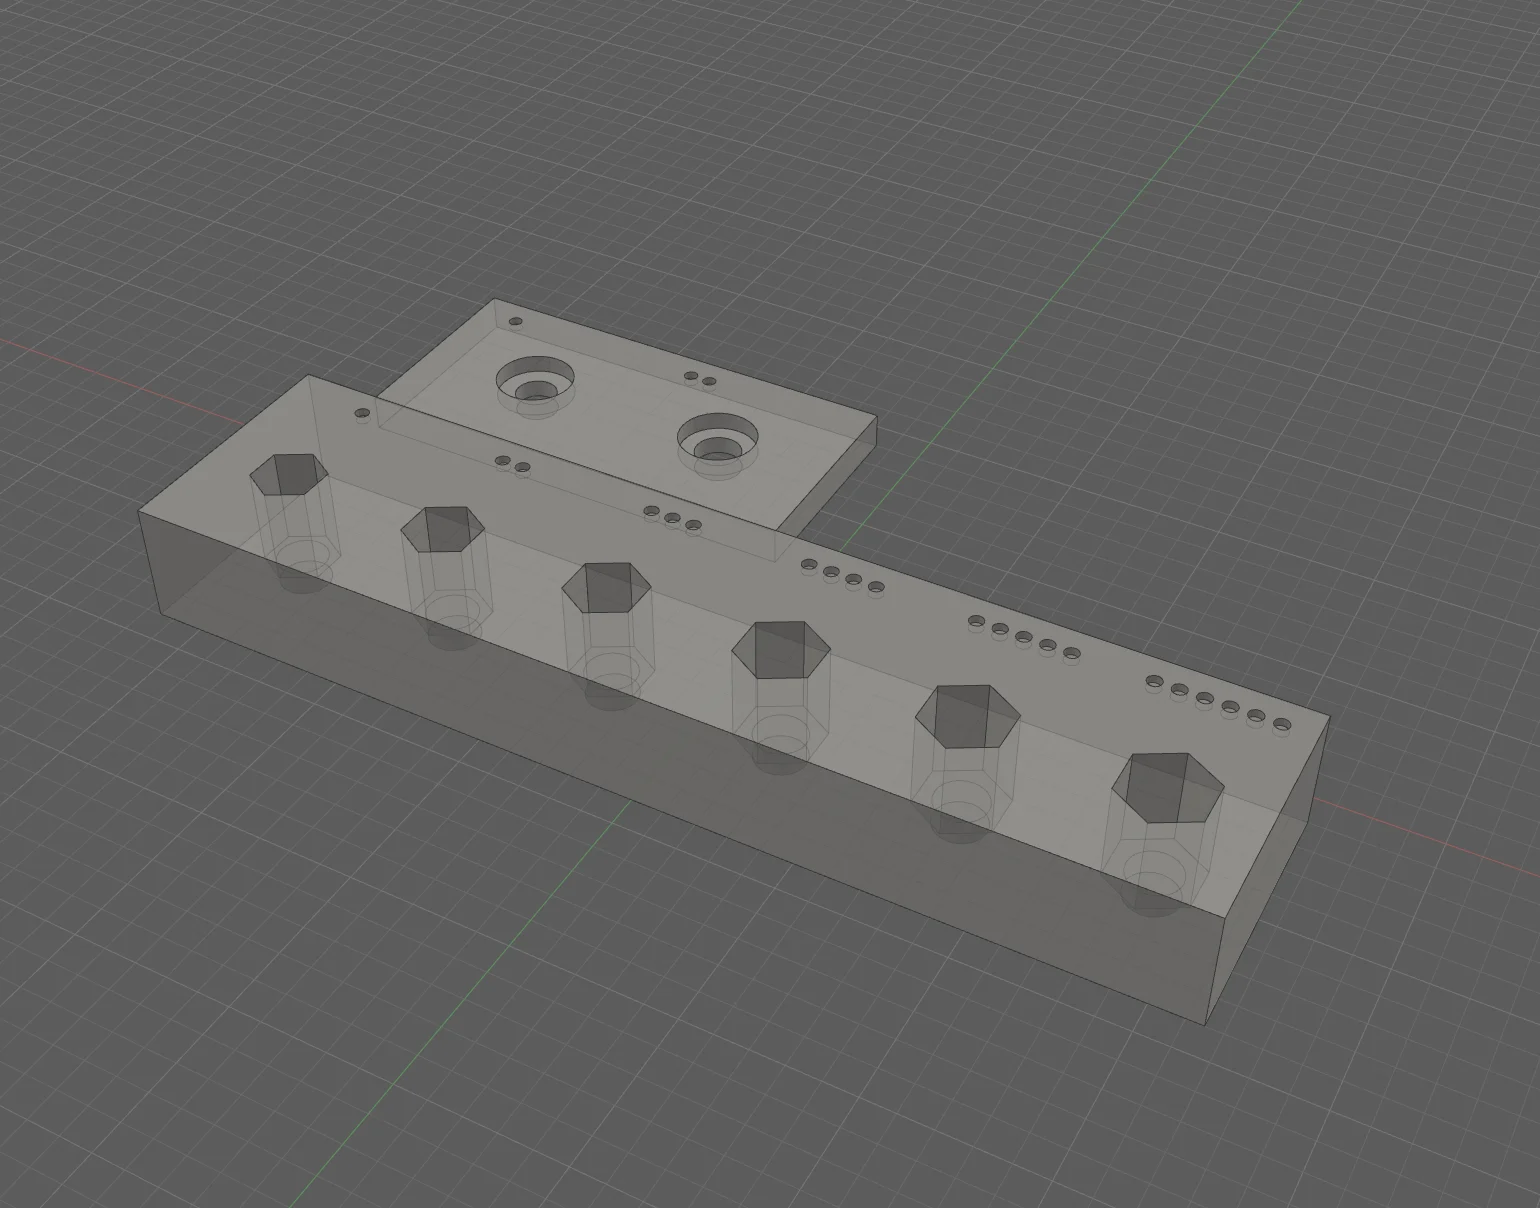
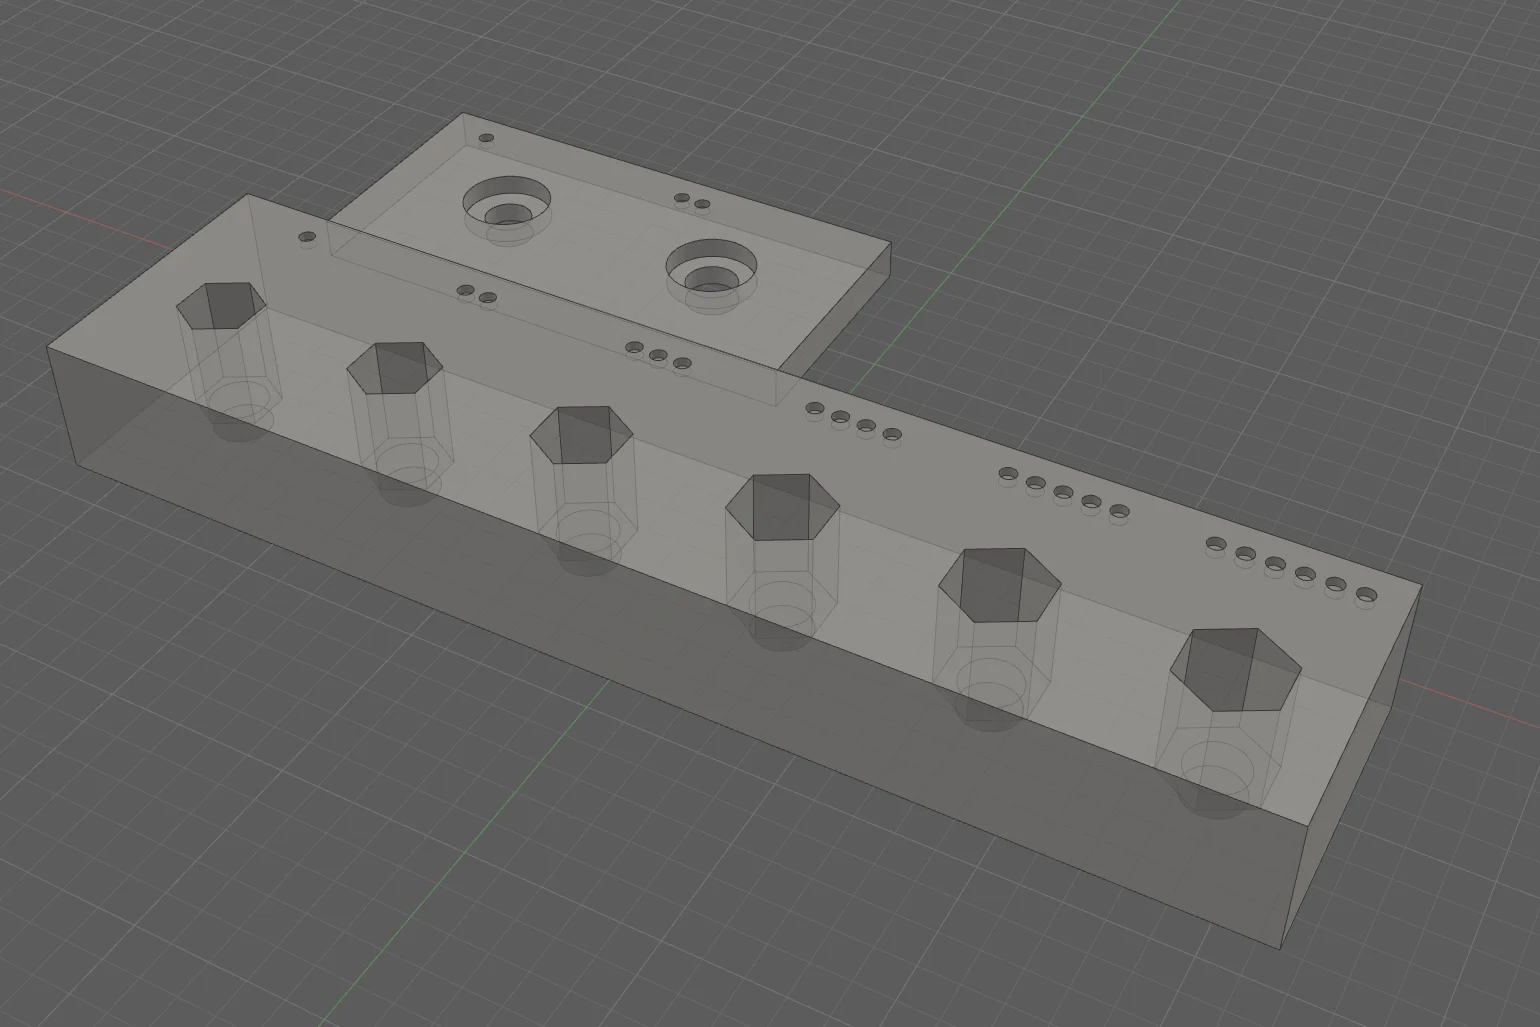
Draft: pair the test print render with the real printed piece
Claude-Session: https://claude.ai/code/session_01CVY6wCxfQDYE3dbjZCgMcR

diff --git a/src/content/work/toilet-paper-elevator.md b/src/content/work/toilet-paper-elevator.md
@@ -201,8 +201,9 @@ I designed the pod in Fusion and printed everything in gray. The LiPo sits trapp
   <figcaption>The pod shell in Fusion, with a hex pocket that traps each nut.</figcaption>
 </figure>
 
-<figure class="textw">
-  <img src="/work/tpe-assets/standoff-test.webp" alt="The test print in Fusion, see-through: a block with six hex pockets in a row, sized 4.0 to 4.9 mm and numbered with engraved dots, plus a strip with two screw holes"/>
+<figure class="pair">
+  <img src="/work/tpe-assets/standoff-test.webp" alt="The test print in Fusion, see-through: a block with six hex pockets sized 4.0 to 4.9 mm and numbered with engraved dots, plus a strip with two screw holes"/>
+  <img src="/work/tpe-assets/standoff-test-photo.webp" alt="The printed test pieces: the brass standoff pressed into the sixth hex pocket, and a screw through the strip"/>
   <figcaption>A 15-minute test print first: six hex pockets from 4.0 to 4.9 mm. The brass standoff press-fit snugly in the 4.9 mm pocket, so that size went into the shell.</figcaption>
 </figure>
 
